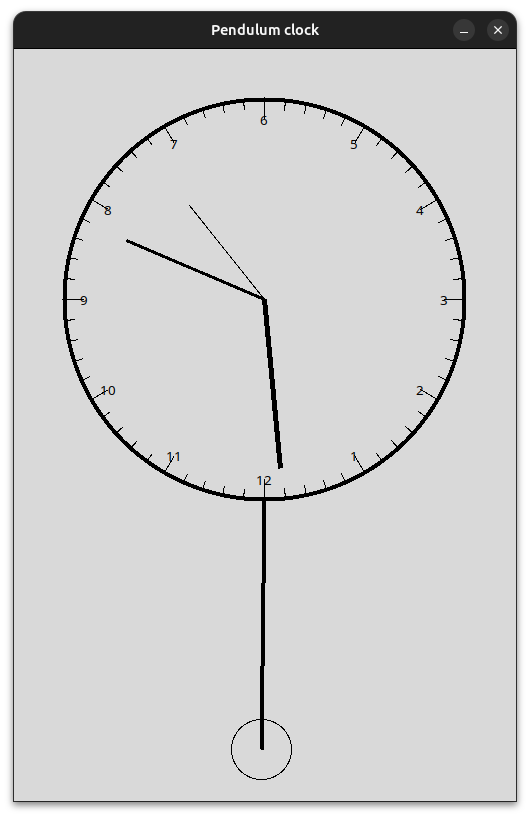
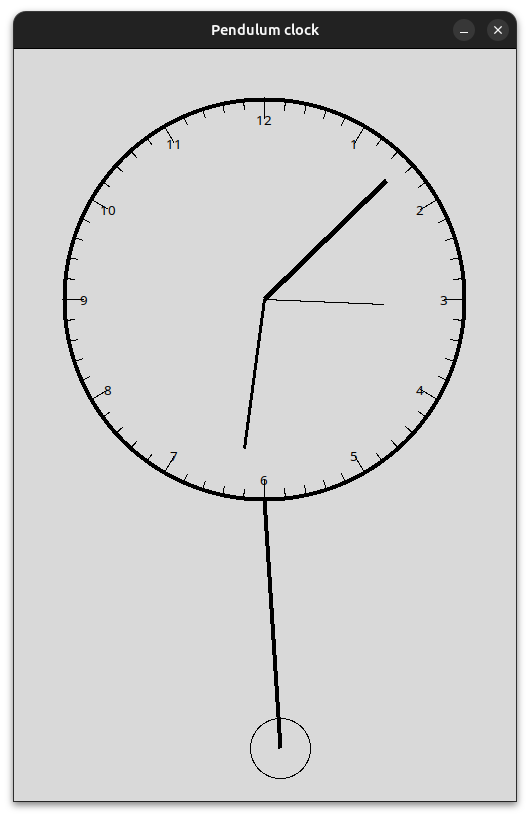
Bug fixes

diff --git a/clock_simulator.py b/clock_simulator.py
@@ -60,16 +60,16 @@ class round_clock:
 
         # Drawing hour markers
         for i in range(12):
-            angle: float = math.pi / 6 * i # The angle between the hour markers is 30 degrees (pi/6 radians)
+            angle: float = - math.pi / 6 * i + math.pi / 2 # The angle between the hour markers is 30 degrees (pi/6 radians)
 
-            x0: float = self._center[0] + (self._radius - round_clock.HOUR_MARKER_OFFSET) * math.sin(angle)
-            x1: float = self._center[0] + self._radius * math.sin(angle)
+            x0: float = self._center[0] + (self._radius - round_clock.HOUR_MARKER_OFFSET) * math.cos(angle)
+            x1: float = self._center[0] + self._radius * math.cos(angle)
 
-            y0: float = self._center[1] + (self._radius - round_clock.HOUR_MARKER_OFFSET) * math.cos(angle)
-            y1: float = self._center[1] + self._radius * math.cos(angle)
+            y0: float = self._center[1] - (self._radius - round_clock.HOUR_MARKER_OFFSET) * math.sin(angle)
+            y1: float = self._center[1] - self._radius * math.sin(angle)
 
             self._canvas.create_line(x0, y0, x1, y1, width=round_clock.THICKNESS, fill=self._figure_color)
-            self._canvas.create_text(x0, y0, text=(i+11) % 12 + 1, fill=self._figure_color)
+            self._canvas.create_text(x0, y0, text=(i + 11) % 12 + 1, fill=self._figure_color)
         
         # Drawing minute markers
         for i in range(60):
